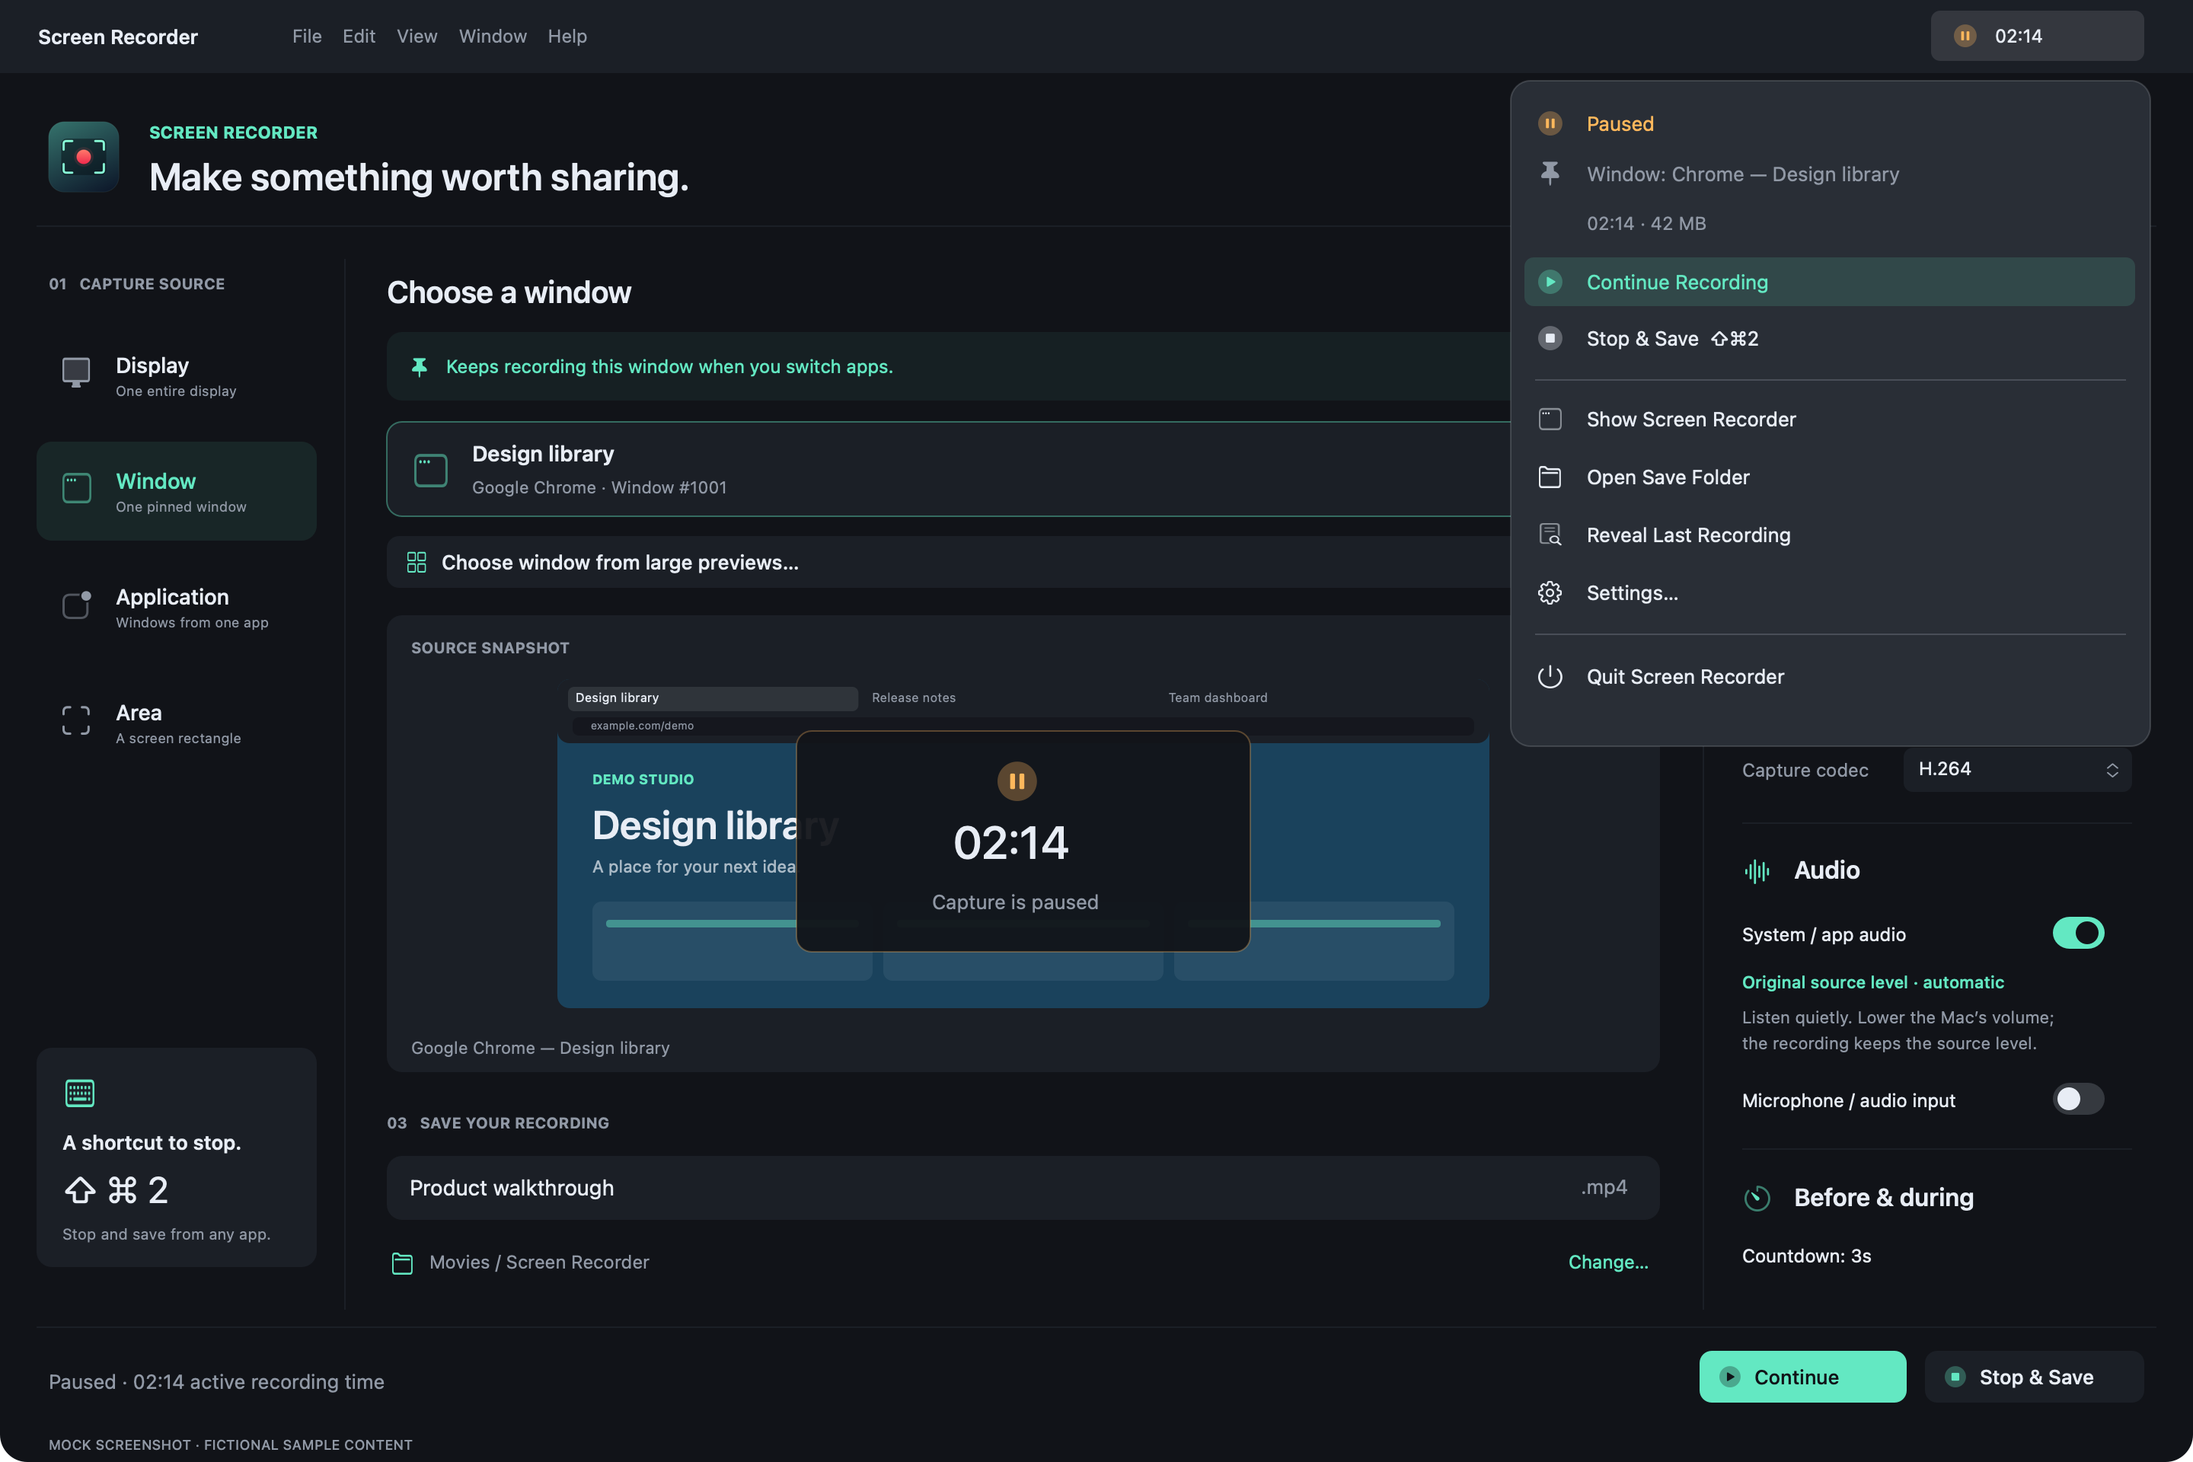
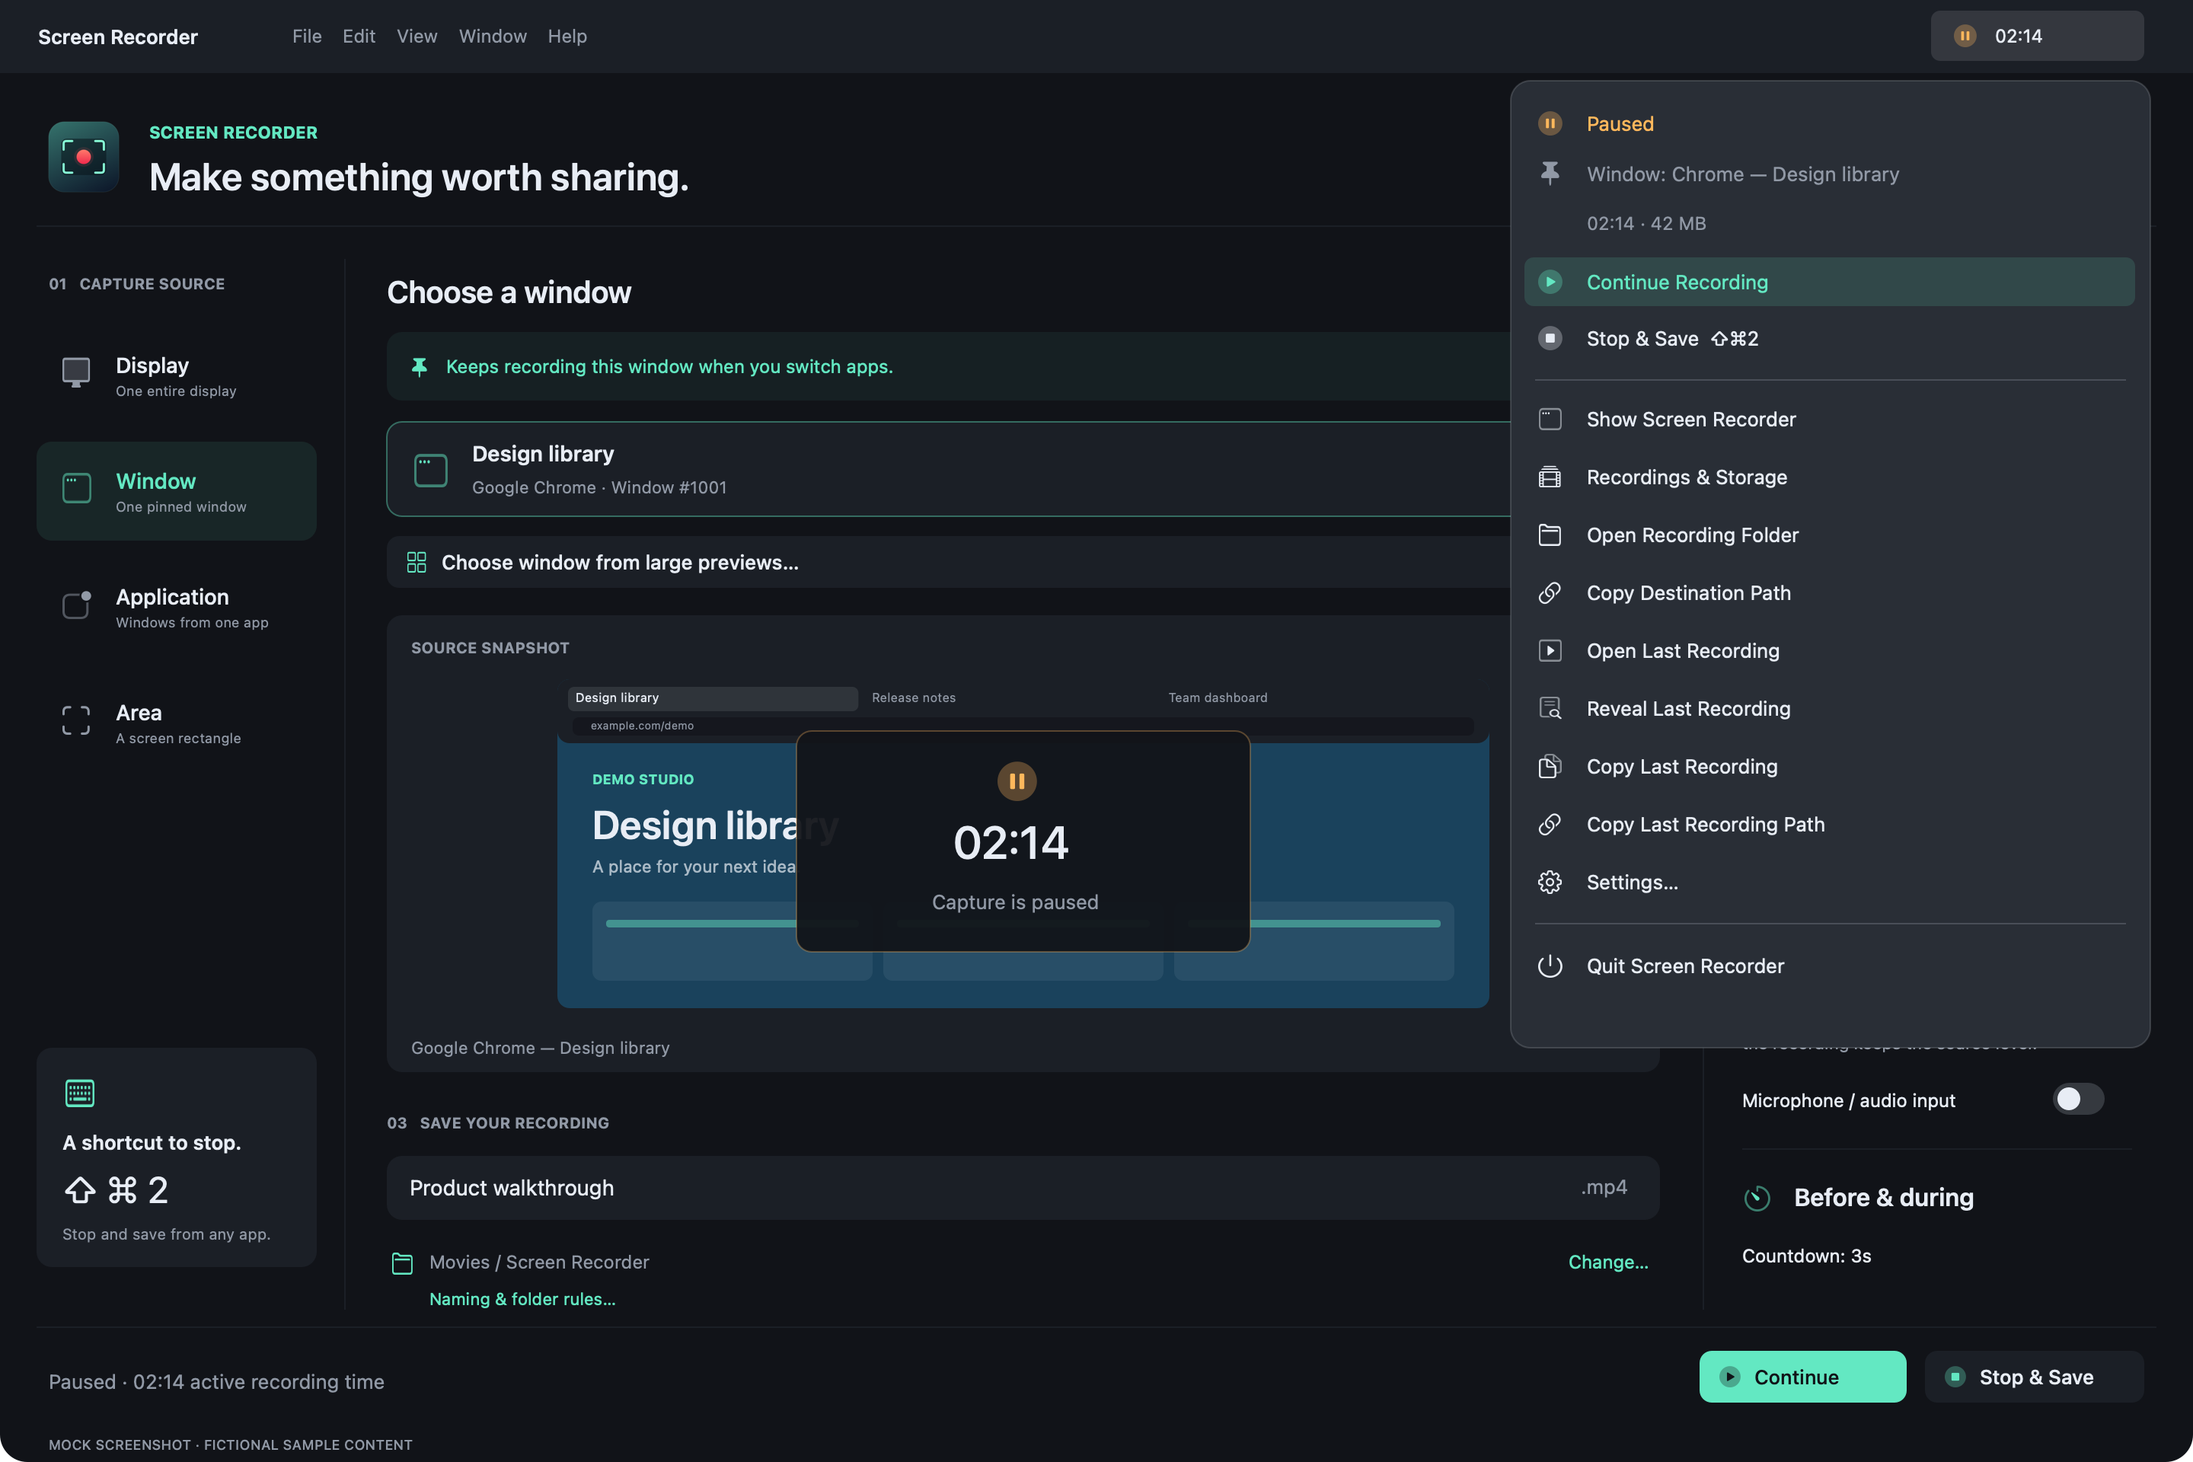
Document optional naming, app and date folders, formats, and recording statistics

Changed region(s): [[0.6875, 0.4062, 1.0, 0.7188], [0.6875, 0.3125, 0.8125, 0.375], [0.2188, 0.875, 0.25, 0.9062]]

diff --git a/guides/organizing-recordings.md b/guides/organizing-recordings.md
@@ -1,0 +1,74 @@
+# Naming, folders, and your recordings
+
+[← All guides](../README.md#user-guide) · [Recording options and files](settings-and-files.md)
+
+## Keep the defaults, or choose your own rules
+
+By default, Screen Recorder keeps the existing **Recording YYYY-MM-DD HH-mm-ss** naming style and saves directly in **Movies → Screen Recorder**, or the folder you have already chosen. MP4 remains the default for a new installation. Your saved preferences are retained when updating.
+
+Open **Settings → Naming & Folders**, or **Naming & folder rules…** below the filename in the Recording tab. All rules are optional and apply only to future recordings. They never rename or reorganize existing files. Choose **Reset naming & folder rules** to return to using the filename field and saving directly in your selected base folder.
+
+![Mock naming settings with a fictional filename and app/date folders](../images/naming-mock.png)
+
+## Prefixes, suffixes, and filename templates
+
+**Prefix** and **Suffix** add literal text before or after your filename. Add any separator you want, such as `Work_` or `_Final`.
+
+The default **Name template** is `{name}`, which uses the filename you entered in the Recording tab. Choose an example or type a custom template. The format’s extension is added automatically.
+
+| Token | Meaning | Example |
+| --- | --- | --- |
+| `{name}` | Filename entered in the Recording tab, without its video extension | Product walkthrough |
+| `{app}` | Selected source’s application name, without spaces or punctuation | GoogleChrome |
+| `{mode}` | Capture mode | Window |
+| `{date}` | Local date when you press Record | 2026-01-12 |
+| `{time}` | Local 24-hour time when you press Record | 10-30-00 |
+| `{year}` | Four-digit year | 2026 |
+| `{month}` | Two-digit month | 01 |
+| `{day}` | Two-digit day of the month | 12 |
+| `{hour}` | Two-digit hour, 00–23 | 10 |
+| `{minute}` | Two-digit minute | 30 |
+| `{second}` | Two-digit second | 00 |
+
+For example, prefix `Work_`, template `{name}`, the app-name switch enabled, and suffix `_Final` can produce **Work_Product walkthrough_GoogleChrome_Final.mp4**. Another template, `{app}_{date}_{time}`, can produce **GoogleChrome_2026-01-12_10-30-00.mp4**.
+
+Tokens are expanded in the filename and folder templates. Prefixes and suffixes are literal text. The example path updates as you edit; the date/time is fixed for the session when you press Record, before the countdown. Unknown tokens or invalid names show an error and prevent recording until corrected. Existing filenames receive a number instead of being overwritten.
+
+## Date, time, and application folders
+
+Leave **Folder template** empty to save directly in your chosen folder. Use `/` between levels, with up to eight nested levels including optional app grouping.
+
+| Folder template | Example subfolder |
+| --- | --- |
+| `{year}/{month}/{day}` | 2026/01/12 |
+| `{year}/{month}` | 2026/01 |
+| `{month}` | 01 |
+| `{day}` | 12 |
+| `{date}/{hour}` | 2026-01-12/10 |
+| `{app}/{year}/{month}` | GoogleChrome/2026/01 |
+
+A month-only folder combines that month across years. A day-only folder combines the same day number across months and years. Include the year and month if you want each date kept separately.
+
+**Group recordings in a folder for each app** adds the selected app as the first folder level. With `{year}/{month}/{day}`, a Chrome recording could go to **Movies / Screen Recorder / GoogleChrome / 2026 / 01 / 12**. Use either the grouping switch or `{app}` in the template unless you want the app repeated at two levels.
+
+App naming uses the application that owns the selected window, or the application selected in Application mode. It stays with that source when you switch focus to another app. It identifies the app, not a browser tab, account, or individual window instance. Display and Area modes use **Display** and **Area**, because they do not capture only one app. A separate browser tab’s title is not used in filenames automatically.
+
+Generated folders stay under your chosen base folder. Rules cannot contain parent-directory traversal or use a nested symbolic link to escape that folder. Keep the destination drive connected until saving finishes.
+
+## Recordings tab and storage statistics
+
+Open the **Recordings** tab, or choose **Recordings & Storage** in the menu bar. It lists MP4, MOV, WebM, and MKV files in your current base folder and its subfolders, including compatible files already there. It reads local file details in the background and does not upload or automatically play videos.
+
+![Mock recordings tab showing fictional file sizes, folders, and dates](../images/recordings-mock.png)
+
+- **Videos:** number of listed video files.
+- **Video files:** combined logical size of the listed videos.
+- **Folder total:** combined logical size of visible regular files, including non-video files and temporary recordings. This is not the exact disk allocation or the size of other save folders or drives.
+- **Created** and **Modified:** filesystem timestamps. Selecting a file shows the full date/time, including seconds, and exact byte count. These dates may change when files are copied or edited; they are not a guaranteed original recording start or end time.
+- **Sort by:** Name, Folder, Size, Created, or Modified, with Ascending/Descending order.
+- **Search:** filter by filename or subfolder. Summary totals still cover the whole scanned folder.
+- **Open Video**, **Reveal in Finder**, **Copy File**, and **Copy Path** act on the selected file. Double-clicking a row opens it in its default player; right-clicking offers the same actions.
+
+The scan skips hidden files, application packages, symbolic links, and unfinished recording sections in the video list. Temporary sections still count toward Folder total. Unreadable items produce a warning and totals may be incomplete. A missing save folder shows an empty list until it is created.
+
+The list refreshes when opened, when your save folder changes, and after a recording is saved. Use **Refresh** for files changed in Finder or for an updated size during recording. The Recordings tab remains available while recording; use the menu bar to pause or stop.

diff --git a/guides/settings-and-files.md b/guides/settings-and-files.md
@@ -47,11 +47,14 @@ If another app owns the global shortcut, Screen Recorder reports it as unavailab
 
 | Format | Use it for | Extra software |
 | --- | --- | --- |
-| MP4 | General playback and sharing; H.264 is a useful starting point | None |
+| MP4 (default) | General playback and sharing; H.264 is a useful starting point | None |
 | MOV | A QuickTime movie or a workflow that expects MOV | None |
 | WebM | A workflow that needs WebM video | A separate FFmpeg installation with VP9 and Opus encoding |
+| MKV | A Matroska container for compatible players or editing workflows | A separate FFmpeg installation |
 
-WebM records a MOV first and converts it after stopping. Conversion takes extra time and disk space. FFmpeg is optional and is not included with the app. If needed, obtain it from a trusted source listed at [FFmpeg downloads](https://ffmpeg.org/download.html), then use **Settings → Storage & Formats → Locate FFmpeg…** to select its executable. If you do not need WebM, use MP4 or MOV.
+WebM records a MOV first and converts it after stopping. Conversion takes extra time and disk space. FFmpeg is optional and is not included with the app. If needed, obtain it from a trusted source listed at [FFmpeg downloads](https://ffmpeg.org/download.html), then use **Settings → Storage & Formats → Locate FFmpeg…** to select its executable. MKV also records a MOV first, then FFmpeg repackages its captured video and audio without re-encoding. MKV playback needs a compatible player; QuickTime may not open it. If you do not need these exports, use MP4 or MOV.
+
+Choose your preferred format in the recording options or **Settings → Storage & Formats**. The app remembers it for future recordings. Changing the filename extension does not choose a different format.
 
 If joining or conversion fails, recoverable recorded files are kept and the app displays their locations. Do not delete those files until you have checked and recovered the recording.
 
@@ -61,7 +64,17 @@ Choose a destination and filename before starting. The default is **Movies → S
 
 Keep enough free space for the whole session, including extra space for pause sections or WebM conversion. A successful free-space check at the start cannot guarantee room for an unlimited recording. Keep external drives connected and avoid moving the destination folder while recording.
 
-The menu bar offers **Open Save Folder** and, after a successful save in that app session, **Reveal Last Recording**. You can move or delete completed recordings with Finder after saving finishes.
+The existing filename and destination defaults stay the same. For optional prefixes, suffixes, naming templates, date subfolders, or app-based grouping, see [Naming, folders, and your recordings](organizing-recordings.md). Existing recordings are not renamed or moved by these rules.
+
+## More menu bar actions
+
+- During recording, see the destination filename, elapsed active time, and encoded size. Open the actual recording folder or copy the intended final path. The final file becomes available after saving finishes.
+- Use **Recordings & Storage** to open the separate recordings tab, including while a session is running.
+- After saving in the current app session, **Open Last Recording**, **Reveal Last Recording**, **Copy Last Recording**, or **Copy Last Recording Path** are available. Copy File puts the video on the clipboard for pasting into Finder or another compatible app; it does not upload it.
+- While idle, **Next Recording** lets you change the preferred format, system/app audio, microphone, and countdown. Microphone permission is still requested only if needed when recording starts.
+- **Open Save Folder** opens your base destination; **Open Recording Folder** opens the current nested destination during a session.
+
+Completed files can also be opened, revealed, or copied from the [Recordings tab](organizing-recordings.md#recordings-tab-and-storage-statistics). Move or delete completed recordings with Finder after saving finishes.
 
 ## Updates and removal
 

diff --git a/PRIVACY.md b/PRIVACY.md
@@ -6,7 +6,7 @@ This page describes the current Screen Recorder preview. It will be reviewed bef
 
 ## Your recordings stay where you save them
 
-The current app records and processes video and audio locally on your Mac. It has no recording upload service, account sign-in, advertising, or built-in analytics. Recordings are saved in the folder you choose. WebM conversion, when enabled, runs locally using your selected FFmpeg executable.
+The current app records and processes video and audio locally on your Mac. It has no recording upload service, account sign-in, advertising, or built-in analytics. Recordings are saved in the folder you choose. WebM or MKV export, when enabled, runs locally using your selected FFmpeg executable.
 
 If you select a folder managed by iCloud Drive, Dropbox, a network share, or another service, that service may sync or transfer the saved files according to its own settings. The app does not control those services. Opening an external download or support link uses your browser.
 
@@ -22,6 +22,8 @@ Display and Area recordings can include other apps, notifications, and anything 
 ## Previews, preferences, and temporary files
 
 The app reads available application names and window titles to populate the chooser. Window-gallery snapshots use a bounded memory cache while the app runs, so scrolling and revisiting the chooser can reuse them. They are not saved as screenshot files or uploaded by the app. Off-screen windows are not automatically brought forward to obtain a preview. Main-window source snapshots are also previews, not uploaded images.
+
+The Recordings tab reads filenames, relative folders, sizes, and filesystem creation/modification dates in your chosen save folder and its subfolders. This information stays on your Mac. The scan skips symbolic links, hidden files, and application packages; it does not automatically open or upload the videos. Optional naming rules can include the selected application’s name in saved filenames or folders.
 
 Preferences such as the save folder and recording options are stored on your Mac. Recordings may use temporary sections in the destination folder while capture, joining, or conversion is in progress. These are removed after a successful final save; recoverable files can remain after an error. Check the app’s message before removing them.
 

diff --git a/README.md b/README.md
@@ -14,7 +14,9 @@ Designed for **macOS 15 or later**, on Apple silicon and Intel Macs. Final compa
 - Add a microphone, record without sound, or combine application audio and microphone input.
 - Set a countdown, video resolution, frame rate, cursor options, and an automatic stop time.
 - Pause, continue, and stop from the menu bar.
-- Choose a destination folder and filename; save as MP4 or MOV, or optionally export WebM with FFmpeg.
+- Keep the default filename and folder, or add prefixes, suffixes, app names, and date-based subfolders.
+- Save as MP4 (default) or MOV, or optionally export WebM or MKV with FFmpeg.
+- Browse recordings in a separate tab with size totals, creation/modification times, search, and sorting.
 
 ## Take a look
 
@@ -32,6 +34,14 @@ These are **mock screenshots with fictional sample content**. No personal deskto
 
 ![Mock menu bar controls for continuing a paused recording and stopping and saving](images/menu-bar-mock.png)
 
+**Naming and folder rules**
+
+![Mock optional naming settings with app names and date-based folders](images/naming-mock.png)
+
+**Your recordings and storage**
+
+![Mock recordings tab with fictional file details and sorting controls](images/recordings-mock.png)
+
 ## User guide
 
 | Guide | What it covers |
@@ -40,6 +50,7 @@ These are **mock screenshots with fictional sample content**. No personal deskto
 | [Choose what to record](guides/capture-sources.md) | Displays, windows, apps, areas, browser tabs, and multiple windows |
 | [Set up audio](guides/audio.md) | Application sound, microphones, quiet listening, and silent recording |
 | [Recording options and files](guides/settings-and-files.md) | Quality, countdown, pause, shortcuts, formats, and saving |
+| [Naming, folders, and recordings](guides/organizing-recordings.md) | Optional naming rules, app/date folders, file details, sorting, and storage totals |
 | [Troubleshooting and FAQ](guides/troubleshooting.md) | Missing windows, black previews, audio, saving, and permissions |
 | [Privacy](PRIVACY.md) | Permissions, local files, preview images, and public support |
 | [Release status](RELEASES.md) | Public availability and what to check before downloading |
